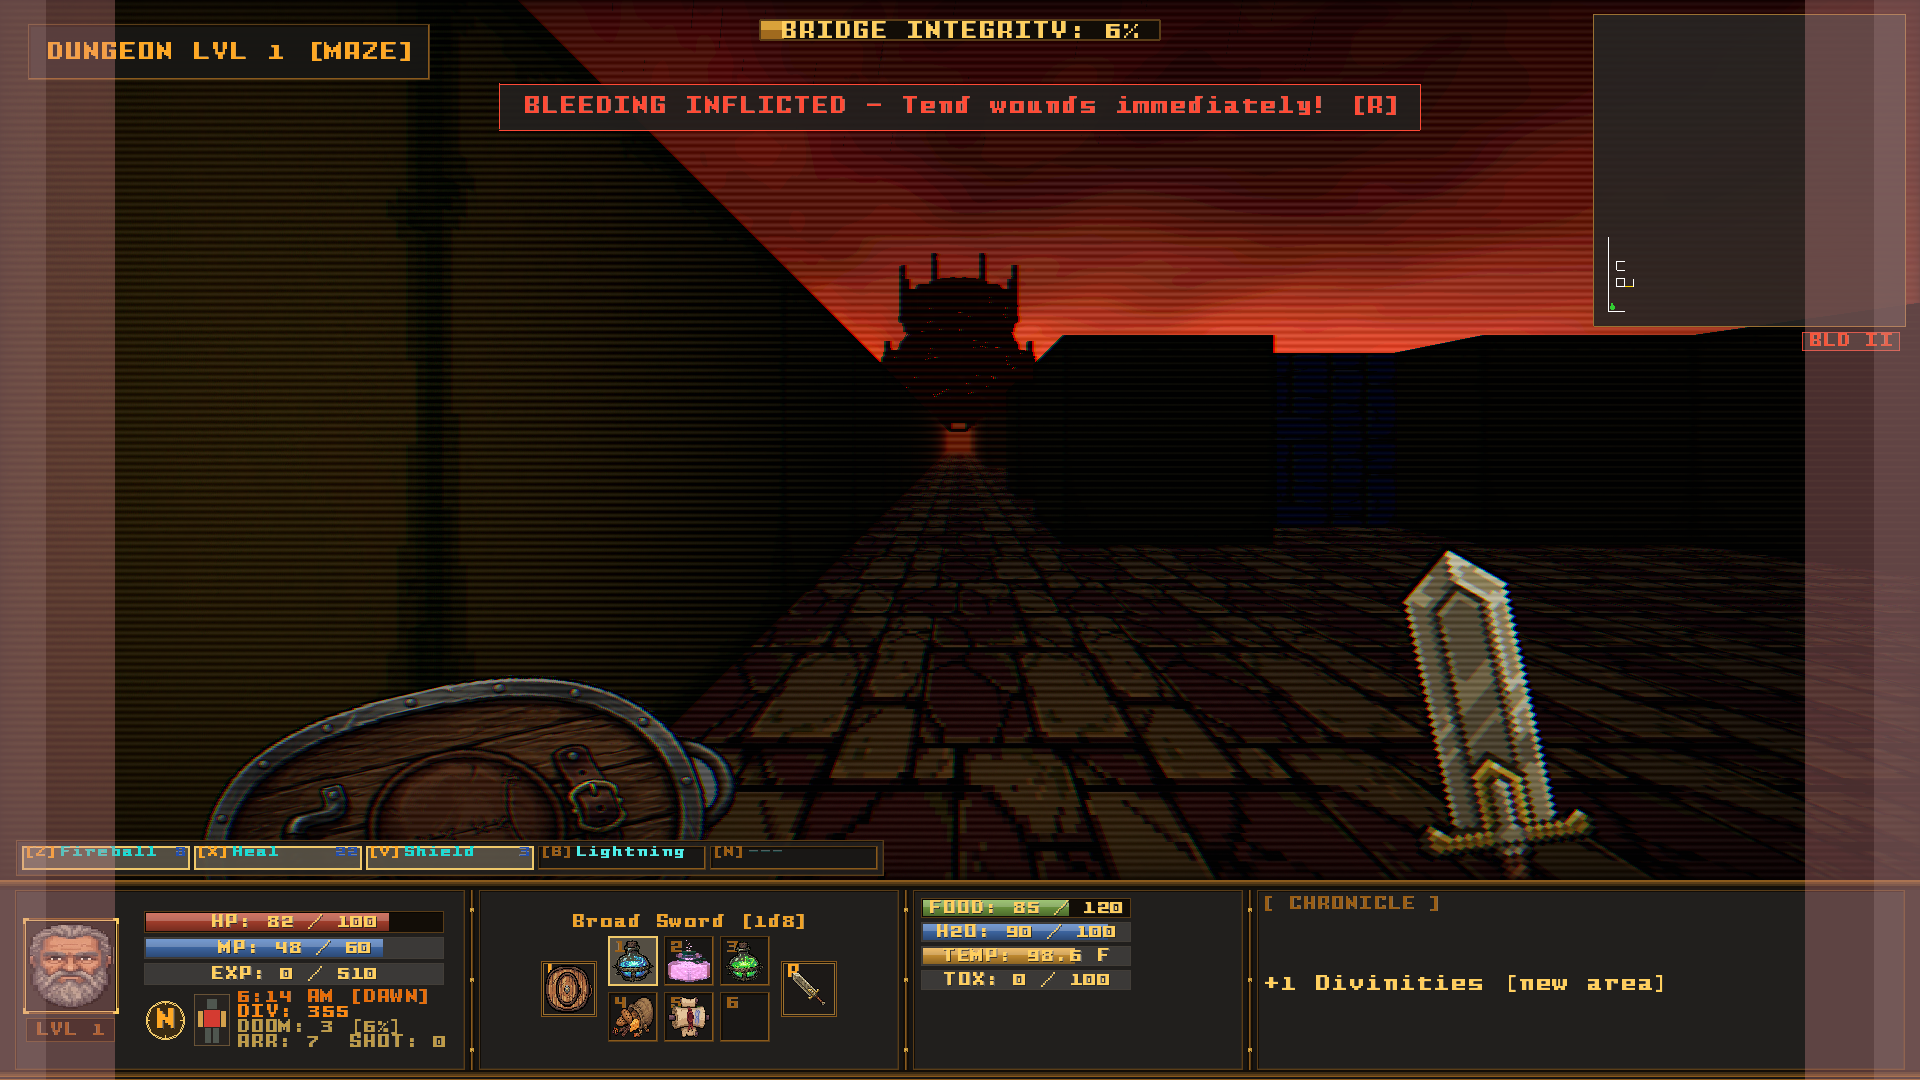
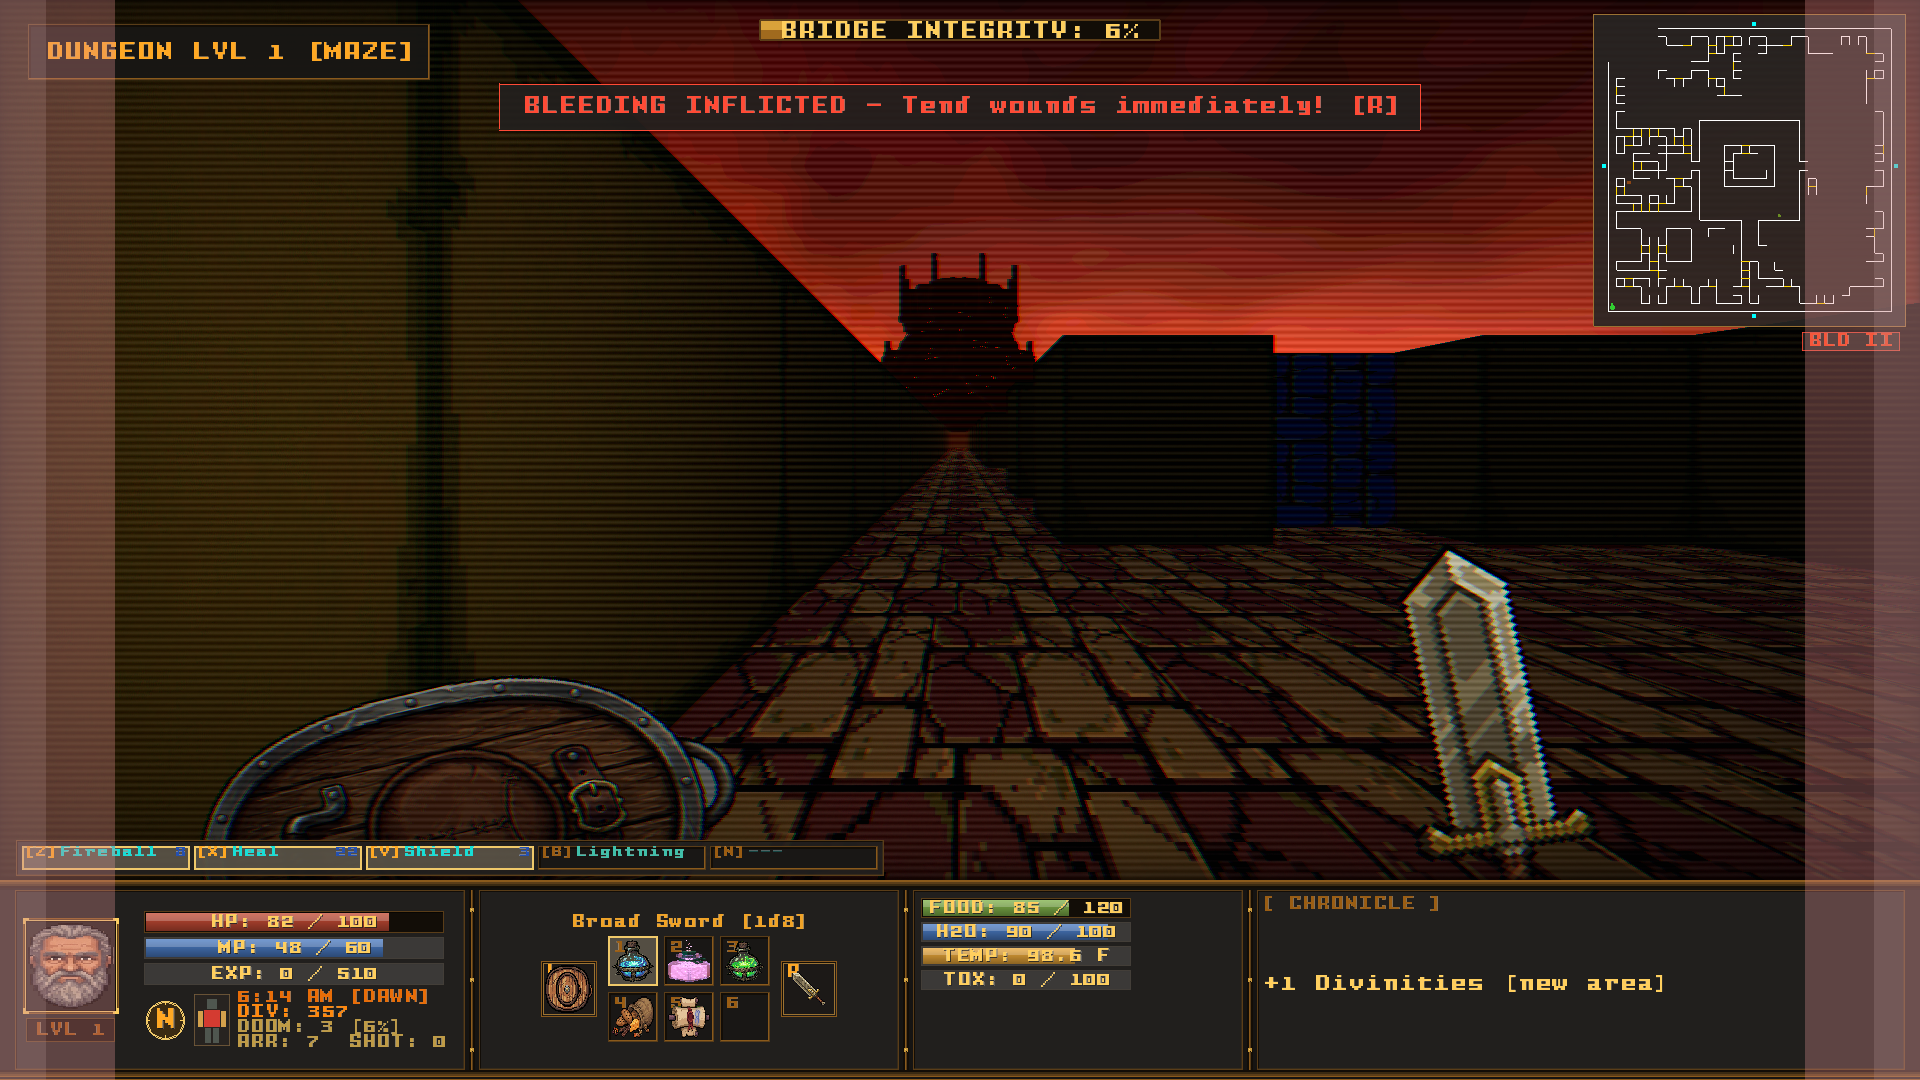
fix(items): finish the display-name pass, and close review findings
#107 claimed "all 164 call sites are fixed at once". That was wrong:
pointing Item.getDisplayName at ItemName only covered callers that go
through it. Around a dozen player-facing paths read getFriendlyName()
directly and still showed the comma form -- the world-interaction card,
the crafting screen's feedback and its Dismantle button, grave loot, the
item inspector, the shelter altar, inventory cook/craft messages, pickup
and thrown-weapon combat log lines, and UnlockManager.displayNameFor.

Deliberately left raw, because they are logic rather than display:
LiquidManager's boots/chest matching and CombatManager's crossbow check
both use contains() on the stored name, and Player's scroll lookup wants
the stored form. getFriendlyName() itself is unchanged for that reason.

ItemName: a name that is nothing but separators used to parse to
category="," and display as ",". Degenerate input now falls back to the
raw string rather than inventing a category out of punctuation.

Spell label colours were four literals (Color.GRAY, Color.WHITE,
Color.DARK_GRAY and a raw hex) on the lines the hotbar fix touched.
They are now HudSkin tokens, per ux-standard section 4.

The minimap zone and the status pills were both deriving a corner from
raw 1920/1080. GameScreen's VIRTUAL_* are private, so Hud now owns
STAGE_WIDTH/STAGE_HEIGHT for its own stage and both callers use them.

Two review findings are deliberately not acted on:
[…]

diff --git a/core/src/main/java/com/bpm/minotaur/rendering/Hud.java b/core/src/main/java/com/bpm/minotaur/rendering/Hud.java
@@ -575,7 +575,7 @@ public class Hud implements Disposable {
                     ? com.bpm.minotaur.screens.SpellbookScreen.SLOT_KEYS[i]
                     : String.valueOf(i + 1);
             spellBadgeLabels[i] = new Label("[" + slotKey + "]", new Label.LabelStyle(hudSkin.getFontMicro(), HudSkin.COL_GOLD_BRIGHT));
-            spellNameLabels[i] = new Label("---", new Label.LabelStyle(hudSkin.getFontMicro(), Color.valueOf("4DEEEA")));
+            spellNameLabels[i] = new Label("---", new Label.LabelStyle(hudSkin.getFontMicro(), HudSkin.COL_SPELL_READY));
             spellNameLabels[i].setEllipsis(true);
             spellCostLabels[i] = new Label("", new Label.LabelStyle(hudSkin.getFontMicro(), HudSkin.COL_MP_ON_DARK));
 
@@ -878,26 +878,26 @@ public class Hud implements Disposable {
                     if (canCast) {
                         spellSlots[i].setBackground(hudSkin.getSlotActive());
                         spellBadgeLabels[i].setColor(HudSkin.COL_GOLD_BRIGHT);
-                        spellNameLabels[i].setColor(Color.valueOf("4DEEEA"));
+                        spellNameLabels[i].setColor(HudSkin.COL_SPELL_READY);
                         spellCostLabels[i].setColor(HudSkin.COL_WATER_CYAN);
                     } else {
                         spellSlots[i].setBackground(hudSkin.getSlotRecessed());
                         spellBadgeLabels[i].setColor(HudSkin.COL_GOLD_MUTED);
-                        spellNameLabels[i].setColor(Color.GRAY);
+                        spellNameLabels[i].setColor(HudSkin.COL_SPELL_UNAFFORDABLE);
                         spellCostLabels[i].setColor(HudSkin.COL_HP_CRITICAL);
                     }
                 } else {
                     spellSlots[i].setBackground(hudSkin.getSlotRecessed());
                     spellBadgeLabels[i].setColor(HudSkin.COL_GOLD_MUTED);
                     spellNameLabels[i].setText(toDisplayCase(spellId));
-                    spellNameLabels[i].setColor(Color.WHITE);
+                    spellNameLabels[i].setColor(HudSkin.COL_TEXT_ON_DARK);
                     spellCostLabels[i].setText("");
                 }
             } else {
                 spellSlots[i].setBackground(hudSkin.getSlotRecessed());
                 spellBadgeLabels[i].setColor(HudSkin.COL_GOLD_MUTED);
                 spellNameLabels[i].setText("---");
-                spellNameLabels[i].setColor(Color.DARK_GRAY);
+                spellNameLabels[i].setColor(HudSkin.COL_SPELL_EMPTY);
                 spellCostLabels[i].setText("");
             }
         }
@@ -2399,13 +2399,16 @@ public class Hud implements Disposable {
      * the map. Anything anchored top-right should measure from this box rather than re-deriving
      * a corner of its own.
      */
+    public static final float STAGE_WIDTH = 1920f;
+    public static final float STAGE_HEIGHT = 1080f;
+
     public static final float MINIMAP_MARGIN_RIGHT = 20f;
     public static final float MINIMAP_MARGIN_TOP = 20f;
     public static final float MINIMAP_MAX_SIZE = 300f;
 
     /** Y coordinate where the reserved minimap box ends, for widgets stacking below it. */
     public static float minimapZoneBottom() {
-        return 1080f - MINIMAP_MARGIN_TOP - MINIMAP_MAX_SIZE;
+        return STAGE_HEIGHT - MINIMAP_MARGIN_TOP - MINIMAP_MAX_SIZE;
     }
 
     /**
@@ -2469,8 +2472,8 @@ public class Hud implements Disposable {
         float actualMapHeight = mazeH * cellSize;
 
         // Position: Top Right (Anchored)
-        float startX = 1920 - actualMapWidth - mapRightMargin;
-        float startY = 1080 - actualMapHeight - mapTopMargin;
+        float startX = STAGE_WIDTH - actualMapWidth - mapRightMargin;
+        float startY = STAGE_HEIGHT - actualMapHeight - mapTopMargin;
 
         // --- 1. Draw Background (Fitted) ---
         Gdx.gl.glEnable(GL20.GL_BLEND);

diff --git a/core/src/main/java/com/bpm/minotaur/rendering/HudSkin.java b/core/src/main/java/com/bpm/minotaur/rendering/HudSkin.java
@@ -53,6 +53,10 @@ public class HudSkin implements Disposable {
     public static final Color COL_BLOOD            = Color.valueOf("6B0508");
     public static final Color COL_BLOOD_BEAD       = Color.valueOf("9B0A0C");
     public static final Color COL_EMBER_GLOW       = Color.valueOf("FF731F");
+    /** Spell hotbar: castable, unaffordable, and empty slot text. */
+    public static final Color COL_SPELL_READY      = Color.valueOf("4DEEEA");
+    public static final Color COL_SPELL_UNAFFORDABLE = Color.valueOf("6E7A7A");
+    public static final Color COL_SPELL_EMPTY      = Color.valueOf("4A4A4A");
 
     // --- Menu text on dark panels -------------------------------------------
     // The status colours above are tuned to read as bars over a lit dungeon. As small

diff --git a/core/src/main/java/com/bpm/minotaur/rendering/StatusPillBar.java b/core/src/main/java/com/bpm/minotaur/rendering/StatusPillBar.java
@@ -173,7 +173,7 @@ public class StatusPillBar extends Table {
         // Directly beneath the minimap's reserved box, not on top of it. Both widgets used to
         // anchor themselves to the top-right corner independently, so the bleeding badge was
         // drawn over the map and clipped at the screen edge.
-        setPosition(1920f - Hud.MINIMAP_MARGIN_RIGHT - getWidth(),
+        setPosition(Hud.STAGE_WIDTH - Hud.MINIMAP_MARGIN_RIGHT - getWidth(),
                 Hud.minimapZoneBottom() - 12f - getHeight());
     }
 
